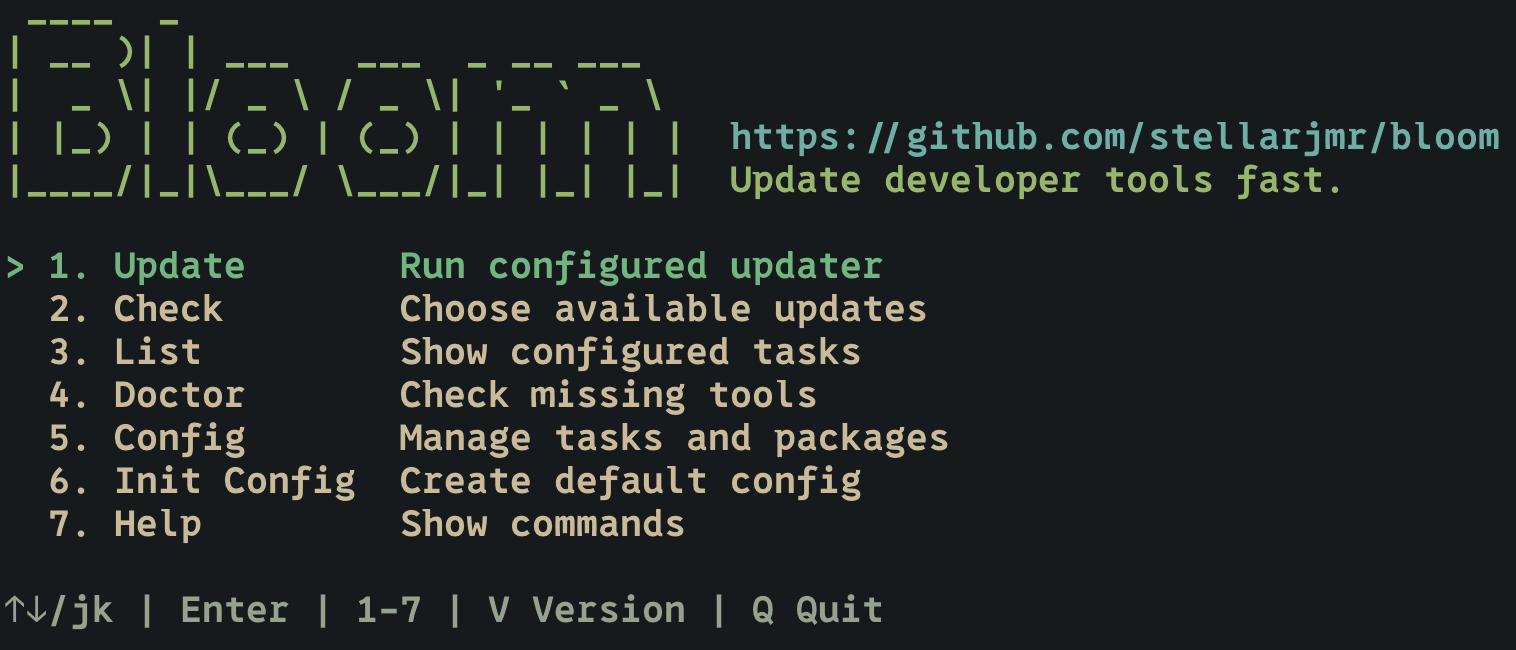
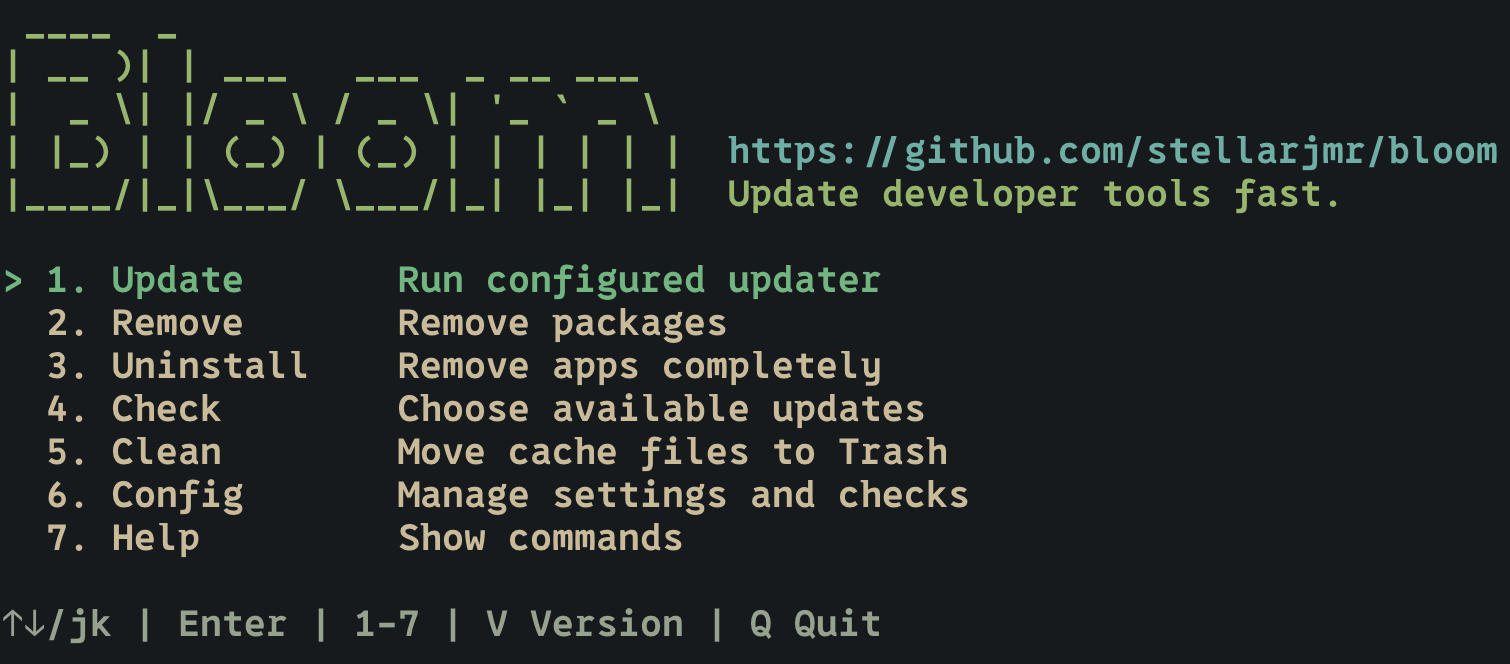
docs: update clean menu screenshot

diff --git a/README.md b/README.md
@@ -33,6 +33,9 @@ bm remove --package npm:pkg  # remove one package from a task
 bm uninstall                 # remove apps and their leftovers
 bm uninstall --list          # list installed apps as TSV
 bm uninstall --dry-run --app /Applications/Foo.app
+bm clean                     # move cleanable cache files to Trash
+bm clean --dry-run           # preview cleanable files without moving them
+bm clean --whitelist         # choose protected clean whitelist entries
 bm list                      # list configured tasks
 bm doctor                    # show available and missing tools
 bm config                    # open the interactive config menu
@@ -63,6 +66,12 @@ Missing tools are skipped during `bm update` and are not counted in the progress
 The interactive Remove flow lives above Uninstall in the main menu. It lists removable package sets from Config → Packages, then calls official removal APIs/commands such as `brew uninstall`, `ya pkg delete`, `npm uninstall -g`, and Mason's package uninstall API.
 
 Homebrew casks and other `.app` bundles are handled by `bm uninstall`, which includes application leftovers. Neovim plugin install/removal is config-driven, so remove plugins from your Neovim configuration instead of using `bm remove`.
+
+## Clean
+
+`bm clean` moves safe, rebuildable cache and temporary files to the macOS Trash. It is conservative by design: protected system paths, Trash, iCloud/Mobile Documents, Apple Notes, Apple Mail, Keychains, Safari/Cookies, browser history/cookies, LaunchAgents/LaunchDaemons, Messages, Reminders, Photos libraries, and other high-value data are skipped or rejected instead of cleaned.
+
+The interactive flow lives at menu item 5. Use `bm clean --dry-run` to preview targets first, and use Config → Clean or `bm clean --whitelist` to choose additional whitelist entries that Bloom should protect.
 
 ## Uninstall
 
@@ -99,7 +108,7 @@ Create it with:
 bm config init
 ```
 
-The config controls task order, enable/disable switches, per-task package `include`/`exclude` filters, progress width, and color output. Empty filters mean update every detected package. Run `bm config` to manage tasks and package filters with a Space-select menu, or edit the TOML directly. See `config.example.toml`.
+The config controls task order, enable/disable switches, per-task package `include`/`exclude` filters, the clean whitelist, progress width, and color output. Empty package filters mean update every detected package. Run `bm config` to manage Tasks, Packages, Clean whitelist entries, List, Doctor, Path, and Reset with the interactive menu, or edit the TOML directly. See `config.example.toml`.
 
 ## Neovim
 